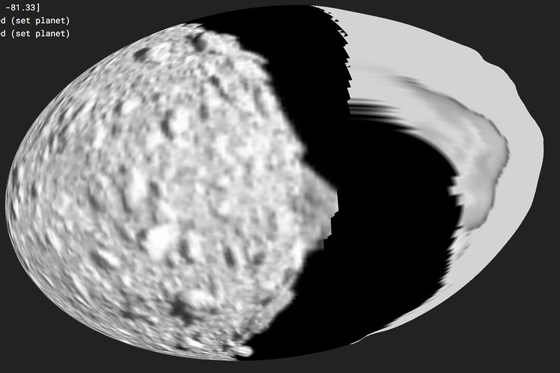
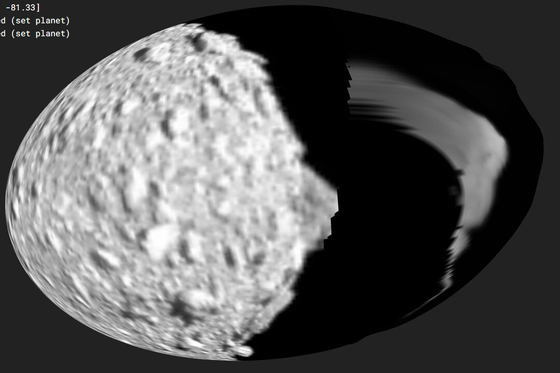
docs(gis): redo step 3 with a de-shade-free reference image
The step 3 figures and numbers now come from --texture-only rather than
--deshade --ambient 1.0. Same result -- correlation 1.0000 at shift (0,0),
mean |dDN| 0.000 over 342635 lit pixels, 99.99% identical -- but the reference
image no longer contains anything fitted, clamped or substituted, so the
evidence stands on its own.

The de-shade version reached the same numbers because the measurement region is
where the mosaic HAS data and the fallback was not active. It was the appearance
outside that region -- a flat bright area whose structure came from the fit's
own blend weight -- that was misleading, which is reason enough not to use it
for this.

Records why plain shaded relief is not an option either: this shape model is
smooth, the boulder detail is in the DRACO texture rather than the mesh, so an
unlit constant-albedo render is featureless at any phase angle.

Changed region(s): [[0.5464, 0.0, 0.9714, 0.9142]]

diff --git a/docs/ProjectionValidation.md b/docs/ProjectionValidation.md
@@ -138,14 +138,23 @@ standoff, so it cannot be compared with the source image DN for DN the way
 steps 1 and 2 were. It can be compared with **the terrain underneath it** —
 and that is the sharper test, provided both show the same thing.
 
-They can be made to. Rendering the image with the OPC's own DRACO mosaic as its
-albedo, unlit, and viewing the surface with DRACO as its primary texture puts
-the *same features* on both sides, so a misregistration is feature doubling
-rather than a judgement call:
+They can be made to. `--texture-only` renders the OPC's own DRACO mosaic as this
+camera sees it — no lighting, and no de-shading fit — and the surface is viewed
+with DRACO as its primary texture, so the *same features* are on both sides and
+a misregistration is feature doubling rather than a judgement call:
 
 ```
-pro3d-tool simulate-image --opc <Dimorphos_0_Meridian> --time 2027-03-21T14:00:00Z     --deshade --deshade-layer DRACO_1 --ambient 1.0 --no-shadows --write-mbi ...
+pro3d-tool simulate-image --opc <Dimorphos_0_Meridian> --time 2027-03-21T14:00:00Z     --texture-only --no-shadows --write-mbi ...
 ```
+
+![the mosaic as the instrument sees it](images/projectionValidation/step3-source-texture.png)
+
+Deliberately **not** `--deshade`: that fits a light direction (r = 0.38 here),
+divides it out, clamps the result and falls back to a constant albedo where its
+confidence drops — an approximation with no place in an image being used as
+evidence. Nor plain shaded relief: this shape model is smooth, so an unlit
+constant-albedo render is a featureless disk at any phase angle. The detail
+lives in the texture, so the texture is what the reference image has to carry.
 
 Camera on that image's own axis at 250 m, *Orientation Source* = MBI,
 *Transfer Function* off:
